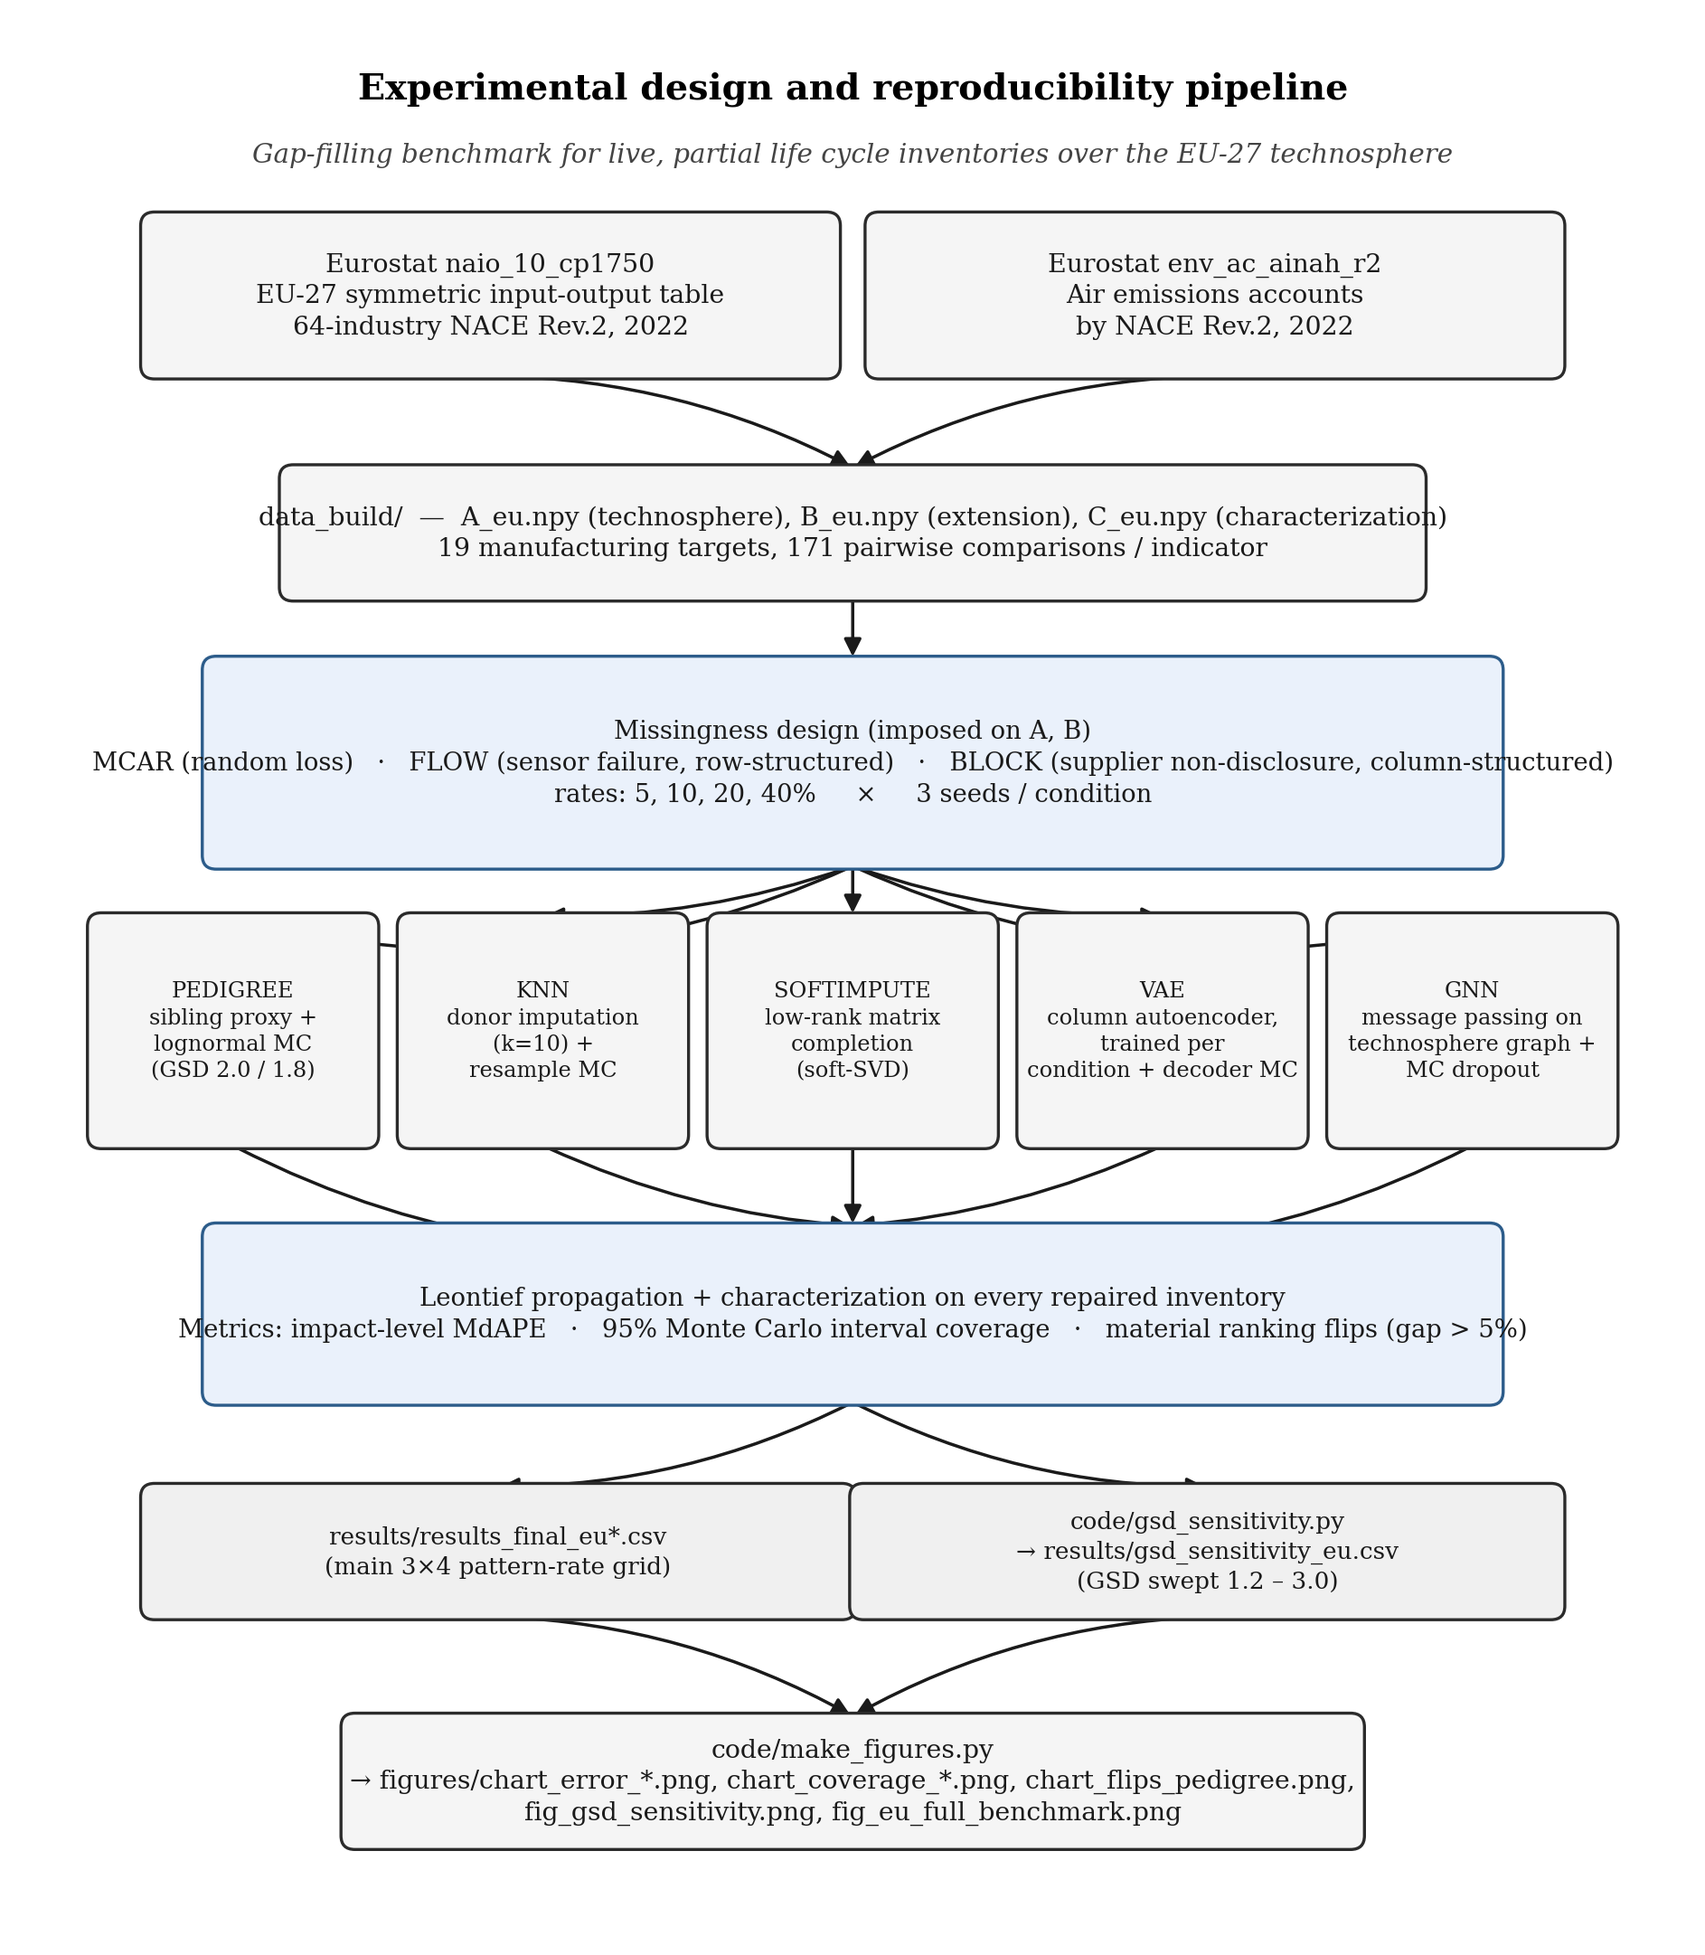
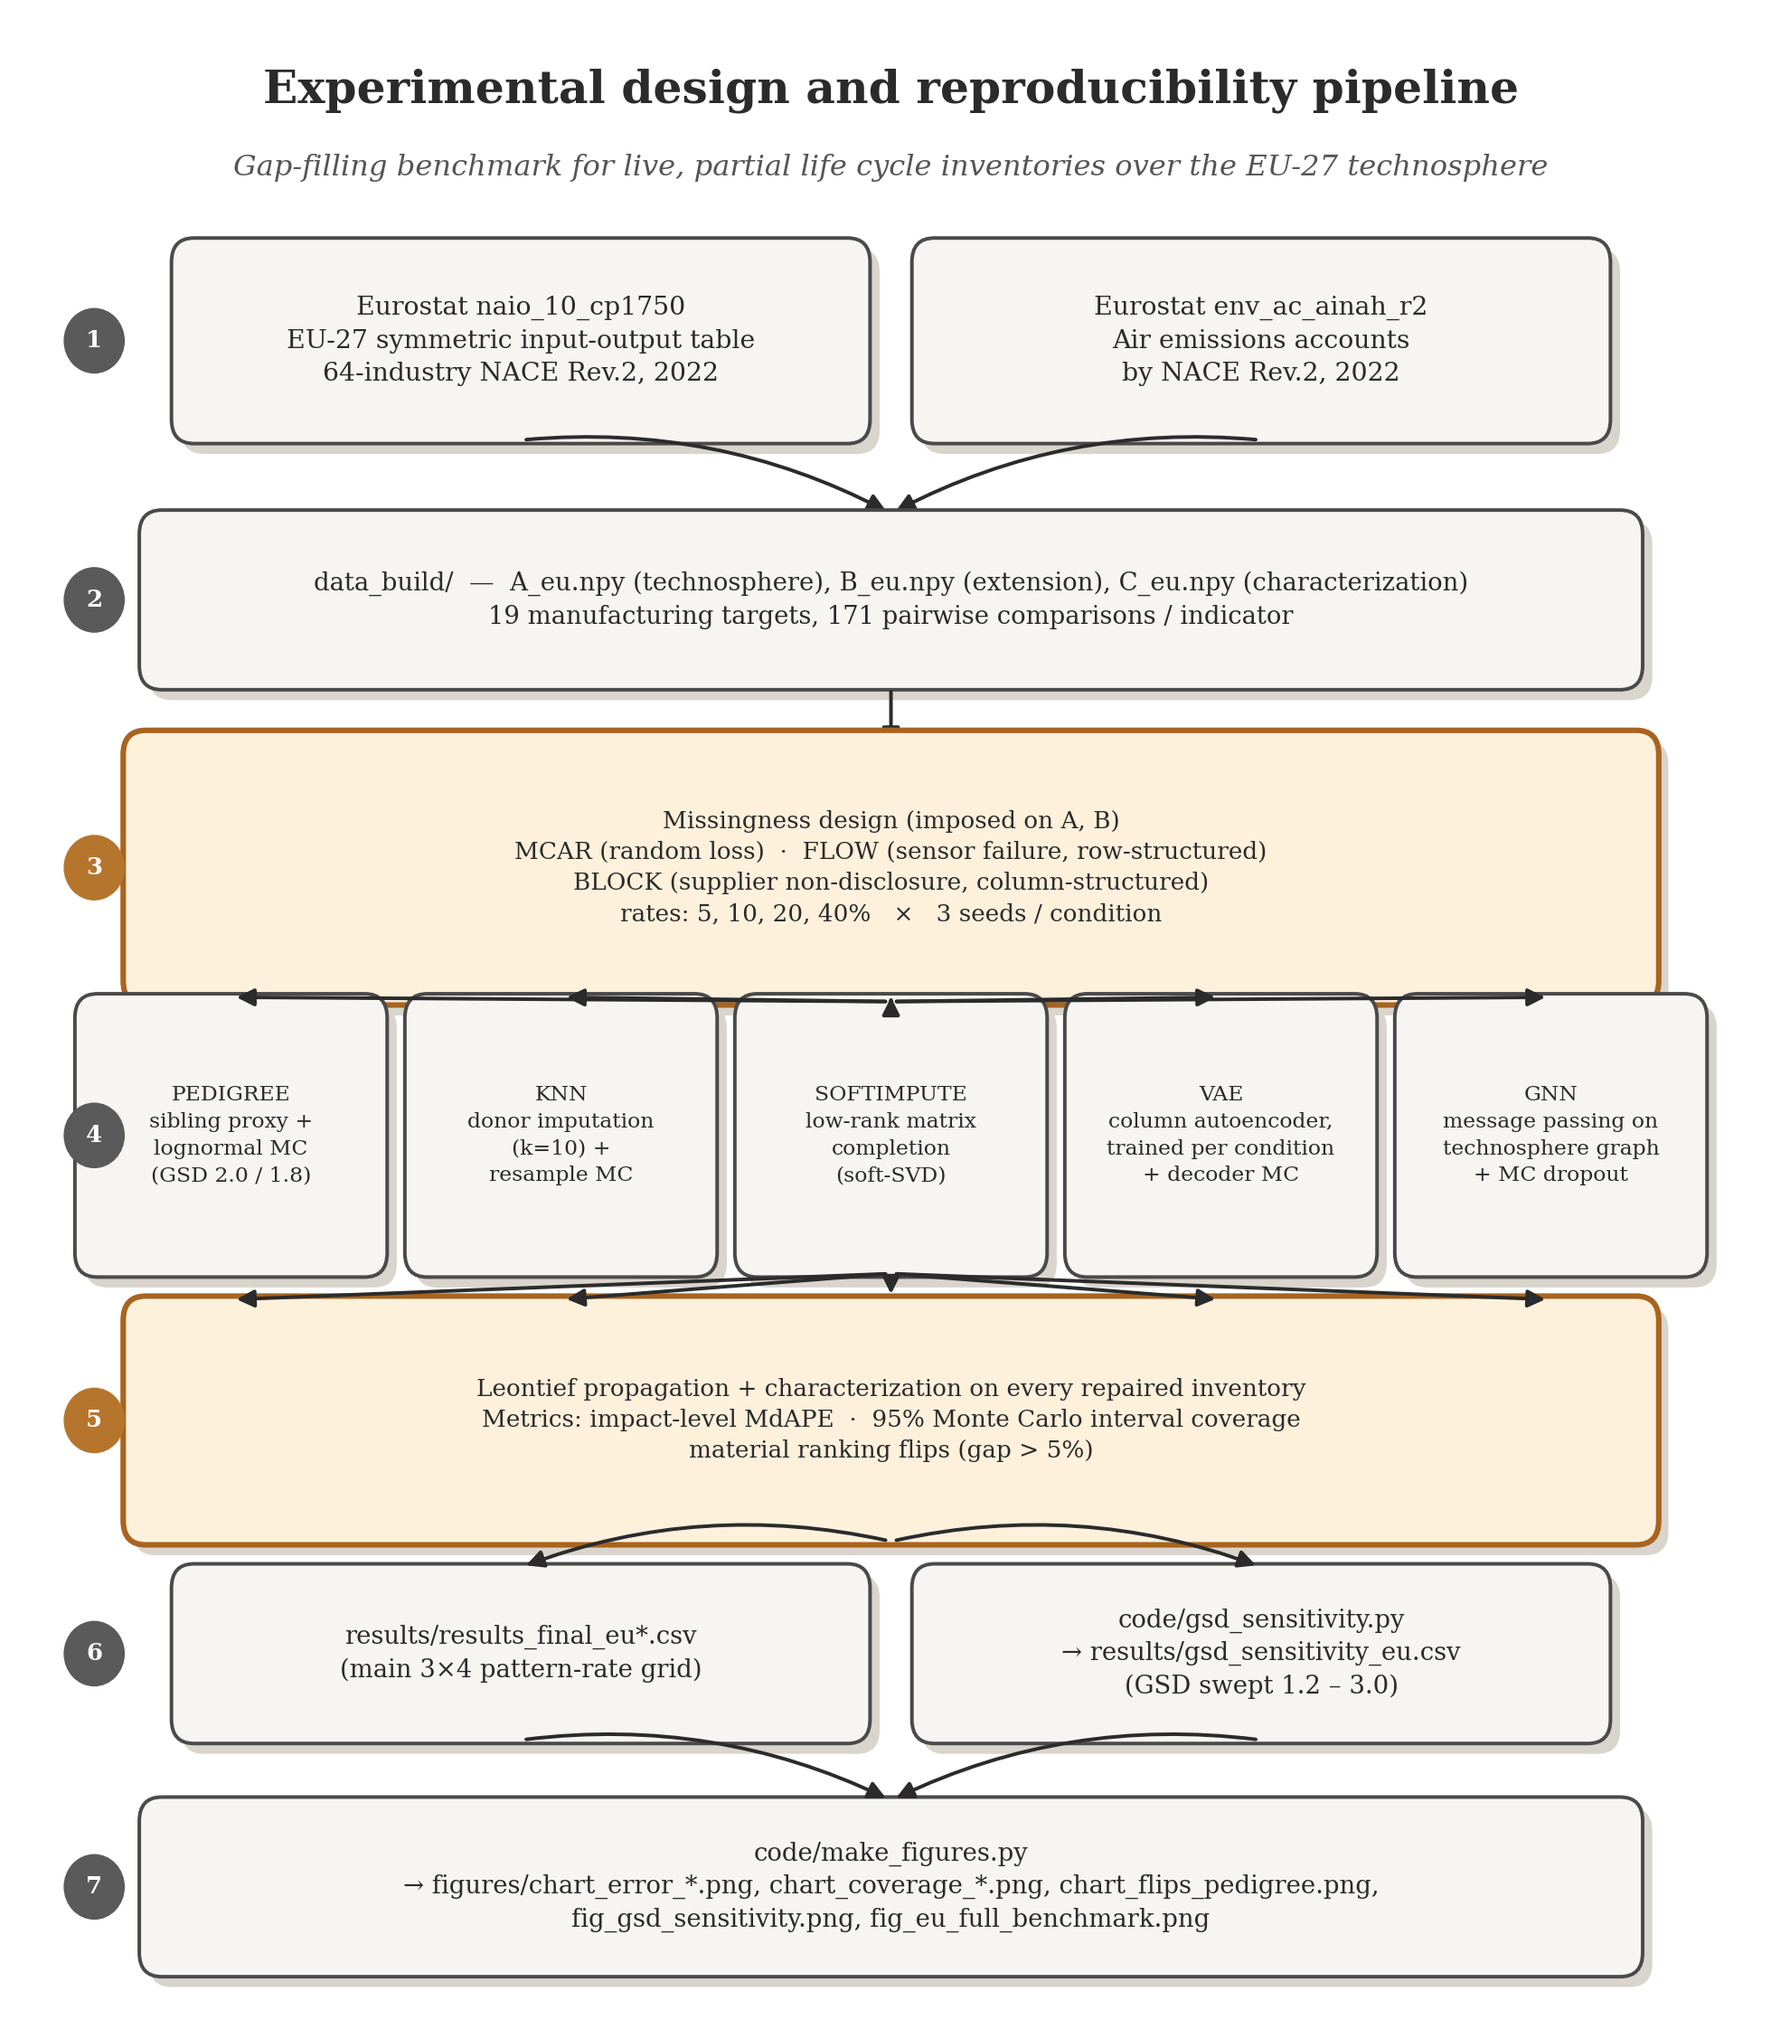
Restyle experiment-design figure; document regeneration script

diff --git a/figures/make_experiment_design_fig.py b/figures/make_experiment_design_fig.py
@@ -1,0 +1,160 @@
+"""Regenerates figures/fig_experiment_design.png.
+
+Standalone script (no dependency on the rest of code/): draws the
+experimental design / reproducibility pipeline diagram described in
+README.md Fig. A1, from a fixed content spec below, so anyone can
+reproduce or restyle the figure without re-deriving the pipeline from
+the result files.
+
+Style: "amber blueprint" -- warm accent color, rounded boxes with a
+subtle drop shadow, numbered stage badges in the left margin. This is
+a deliberately different visual style from the companion Scope 3
+repository's fig_experiment_design.png (slate/teal, sharp corners,
+left accent bars); the two figures describe different pipelines and
+are not meant to look interchangeable.
+"""
+import matplotlib.pyplot as plt
+from matplotlib.patches import FancyBboxPatch, FancyArrowPatch, Circle
+
+plt.rcParams["font.family"] = "DejaVu Serif"
+
+INK = "#2b2b2b"
+BOX_FILL = "#f7f5f2"
+BOX_EDGE = "#4a4a4a"
+AMBER_FILL = "#fdf1dc"
+AMBER_EDGE = "#a8641f"
+AMBER_BADGE = "#b6752d"
+SLATE_BADGE = "#5a5a5a"
+SHADOW = "#d9d5cd"
+
+fig, ax = plt.subplots(figsize=(9.0, 10.2), dpi=220)
+ax.set_xlim(-0.75, 10)
+ax.set_ylim(0, 11.4)
+ax.axis("off")
+fig.patch.set_facecolor("white")
+
+
+def box(cx, cy, w, h, text, highlight=False, fontsize=9.3):
+    fill = AMBER_FILL if highlight else BOX_FILL
+    edge = AMBER_EDGE if highlight else BOX_EDGE
+    lw = 2.0 if highlight else 1.3
+    shadow = FancyBboxPatch(
+        (cx - w / 2 + 0.06, cy - h / 2 - 0.06), w, h,
+        boxstyle="round,pad=0.02,rounding_size=0.14",
+        linewidth=0, facecolor=SHADOW, zorder=1,
+    )
+    ax.add_patch(shadow)
+    patch = FancyBboxPatch(
+        (cx - w / 2, cy - h / 2), w, h,
+        boxstyle="round,pad=0.02,rounding_size=0.14",
+        linewidth=lw, edgecolor=edge, facecolor=fill, zorder=2,
+    )
+    ax.add_patch(patch)
+    ax.text(cx, cy, text, ha="center", va="center", fontsize=fontsize,
+             color=INK, zorder=3, linespacing=1.45)
+
+
+def badge(y, n, highlight=False):
+    x = -0.35
+    c = Circle((x, y), 0.19, facecolor=(AMBER_BADGE if highlight else SLATE_BADGE),
+                edgecolor="none", zorder=4, clip_on=False)
+    ax.add_patch(c)
+    ax.text(x, y, str(n), ha="center", va="center", fontsize=8.5,
+             color="white", weight="bold", zorder=5, clip_on=False)
+
+
+def arrow(p_from, p_to, rad=0.0):
+    a = FancyArrowPatch(
+        p_from, p_to, arrowstyle="-|>", mutation_scale=13,
+        color=INK, linewidth=1.3, shrinkA=2, shrinkB=2,
+        connectionstyle=f"arc3,rad={rad}", zorder=2,
+    )
+    ax.add_patch(a)
+
+
+def fan(src_y, dst_y, xs_dst, x_src=5.0):
+    """Straight fan-out/fan-in arrows between a center point and several
+    x positions on the row below (or above); avoids the tangent-flip
+    artifacts that large-radius curves produce when points converge."""
+    for x in xs_dst:
+        arrow((x_src, src_y), (x, dst_y), rad=0.0)
+
+
+# Title
+ax.text(4.6, 11.05, "Experimental design and reproducibility pipeline",
+         ha="center", va="center", fontsize=16.5, weight="bold", color=INK)
+ax.text(4.6, 10.6, "Gap-filling benchmark for live, partial life cycle "
+                    "inventories over the EU-27 technosphere",
+         ha="center", va="center", fontsize=10.5, style="italic", color="#555")
+
+# Row 1: data sources
+box(2.3, 9.6, 4.3, 1.15,
+    "Eurostat naio_10_cp1750\nEU-27 symmetric input-output table\n"
+    "64-industry NACE Rev.2, 2022")
+box(6.9, 9.6, 4.3, 1.15,
+    "Eurostat env_ac_ainah_r2\nAir emissions accounts\nby NACE Rev.2, 2022")
+badge(9.6, 1)
+arrow((2.3, 9.6 - 0.575), (4.6, 8.1 + 0.5), rad=-0.15)
+arrow((6.9, 9.6 - 0.575), (4.6, 8.1 + 0.5), rad=0.15)
+
+# Row 2: data_build
+box(4.6, 8.1, 9.3, 1.0,
+    "data_build/  —  A_eu.npy (technosphere), B_eu.npy (extension), "
+    "C_eu.npy (characterization)\n19 manufacturing targets, "
+    "171 pairwise comparisons / indicator", fontsize=9.0)
+badge(8.1, 2)
+arrow((4.6, 8.1 - 0.5), (4.6, 6.55 + 0.675))
+
+# Row 3: missingness design (highlight)
+box(4.6, 6.55, 9.5, 1.55,
+    "Missingness design (imposed on A, B)\n"
+    "MCAR (random loss)  ·  FLOW (sensor failure, row-structured)\n"
+    "BLOCK (supplier non-disclosure, column-structured)\n"
+    "rates: 5, 10, 20, 40%   ×   3 seeds / condition",
+    highlight=True, fontsize=8.6)
+badge(6.55, 3, highlight=True)
+
+# Row 4: five methods
+methods = [
+    ("PEDIGREE", "sibling proxy +\nlognormal MC\n(GSD 2.0 / 1.8)"),
+    ("KNN", "donor imputation\n(k=10) +\nresample MC"),
+    ("SOFTIMPUTE", "low-rank matrix\ncompletion\n(soft-SVD)"),
+    ("VAE", "column autoencoder,\ntrained per condition\n+ decoder MC"),
+    ("GNN", "message passing on\ntechnosphere graph\n+ MC dropout"),
+]
+xs = [0.5, 2.55, 4.6, 6.65, 8.7]
+for x, (name, desc) in zip(xs, methods):
+    box(x, 5.0, 1.9, 1.6, f"{name}\n{desc}", fontsize=7.7)
+badge(5.0, 4)
+fan(6.55 - 0.775, 5.0 + 0.8, xs, x_src=4.6)
+
+# Row 5: Leontief propagation (highlight)
+box(4.6, 3.35, 9.5, 1.4,
+    "Leontief propagation + characterization on every repaired inventory\n"
+    "Metrics: impact-level MdAPE  ·  95% Monte Carlo interval coverage\n"
+    "material ranking flips (gap > 5%)", highlight=True, fontsize=8.6)
+badge(3.35, 5, highlight=True)
+fan(5.0 - 0.8, 3.35 + 0.7, xs, x_src=4.6)
+
+# Row 6: outputs
+box(2.3, 2.0, 4.3, 1.0,
+    "results/results_final_eu*.csv\n(main 3×4 pattern-rate grid)", fontsize=9.0)
+box(6.9, 2.0, 4.3, 1.0,
+    "code/gsd_sensitivity.py\n→ results/gsd_sensitivity_eu.csv\n"
+    "(GSD swept 1.2 – 3.0)", fontsize=9.0)
+badge(2.0, 6)
+arrow((4.6, 3.35 - 0.7), (2.3, 2.0 + 0.5), rad=0.15)
+arrow((4.6, 3.35 - 0.7), (6.9, 2.0 + 0.5), rad=-0.15)
+
+# Row 7: figures
+box(4.6, 0.65, 9.3, 1.0,
+    "code/make_figures.py\n"
+    "→ figures/chart_error_*.png, chart_coverage_*.png, chart_flips_pedigree.png,\n"
+    "fig_gsd_sensitivity.png, fig_eu_full_benchmark.png", fontsize=9.0)
+badge(0.65, 7)
+arrow((2.3, 2.0 - 0.5), (4.6, 0.65 + 0.5), rad=-0.15)
+arrow((6.9, 2.0 - 0.5), (4.6, 0.65 + 0.5), rad=0.15)
+
+plt.tight_layout()
+plt.savefig("fig_experiment_design.png", dpi=220, facecolor="white")
+print("saved fig_experiment_design.png")

diff --git a/README.md b/README.md
@@ -27,6 +27,7 @@ repair methods, propagation through the Leontief inverse and characterization, a
 the downstream metrics, GSD-sensitivity, and figure-generation stages. Boxes name
 the exact script or artifact responsible for each stage; see
 [Experiment design](#experiment-design) below for the full description.
+Regenerate this figure with `figures/make_experiment_design_fig.py`.
 
 ## Data build
 
